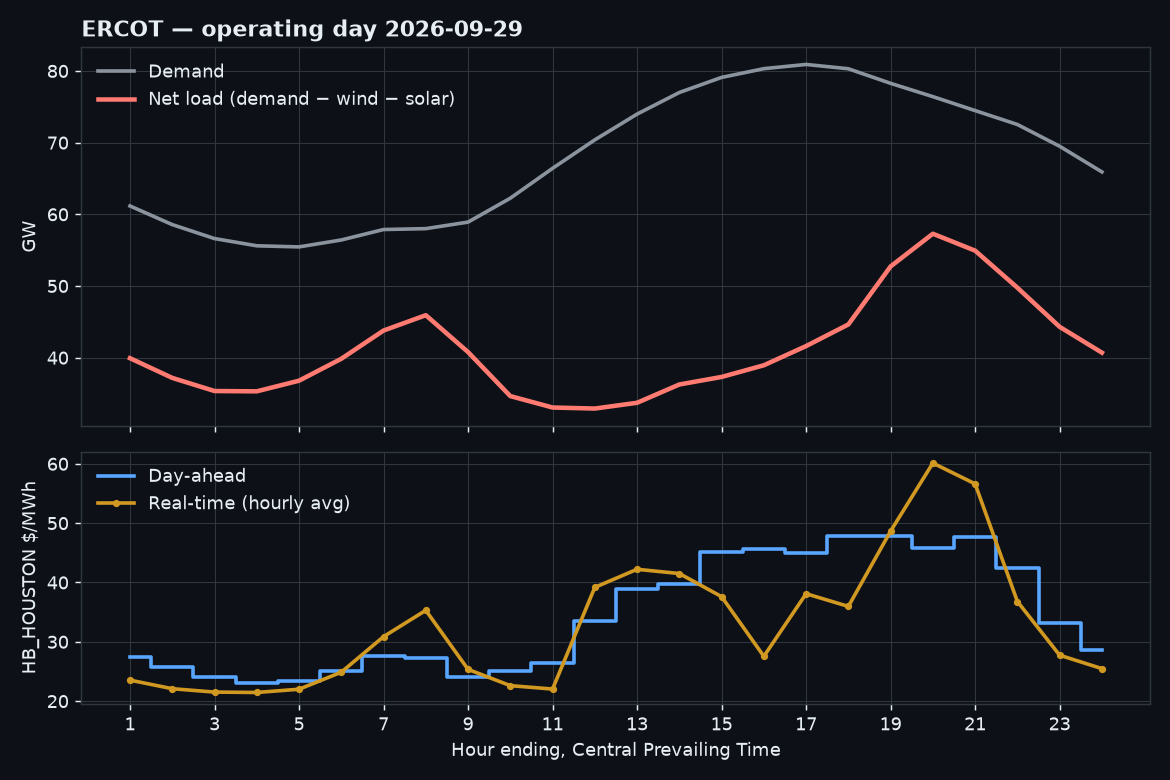
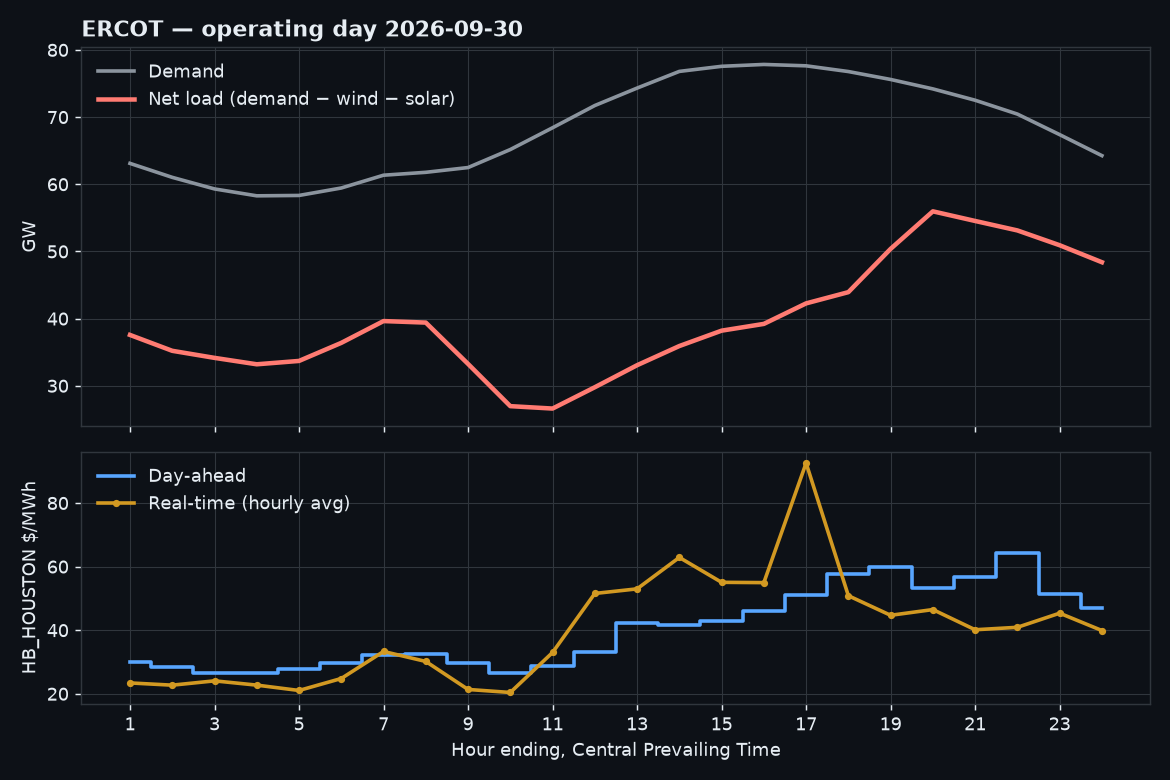
Recap for operating day 2026-09-30

diff --git a/README.md b/README.md
@@ -6,16 +6,16 @@ Yesterday in ERCOT, updated every morning: demand, net load (demand minus
 wind and solar), and the day-ahead versus real-time price at the Houston hub.
 
 <!-- RECAP:START -->
-**Operating day 2026-09-29** (hours ending, Central Prevailing Time)
+**Operating day 2026-09-30** (hours ending, Central Prevailing Time)
 
 <picture>
   <source media="(prefers-color-scheme: dark)" srcset="reports/latest-dark.png">
   <img alt="Yesterday's ERCOT demand, net load and Houston hub prices" src="reports/latest-light.png">
 </picture>
 
-- Demand peaked at **HE17** at 80.9 GW; net load peaked at **HE20** at 57.3 GW.
-- Evening ramp: net load rose **13.3 GW** from HE17 to HE21.
-- HB_HOUSTON: day-ahead averaged \$34.17/MWh, real-time \$32.89/MWh. Widest real-time minus day-ahead spread: **−\$18.09** at HE16.
+- Demand peaked at **HE16** at 77.8 GW; net load peaked at **HE20** at 56.0 GW.
+- Evening ramp: net load rose **12.3 GW** from HE17 to HE21.
+- HB_HOUSTON: day-ahead averaged \$40.22/MWh, real-time \$39.81/MWh. Widest real-time minus day-ahead spread: **+\$41.57** at HE17.
 <!-- RECAP:END -->
 
 ## Why net load
